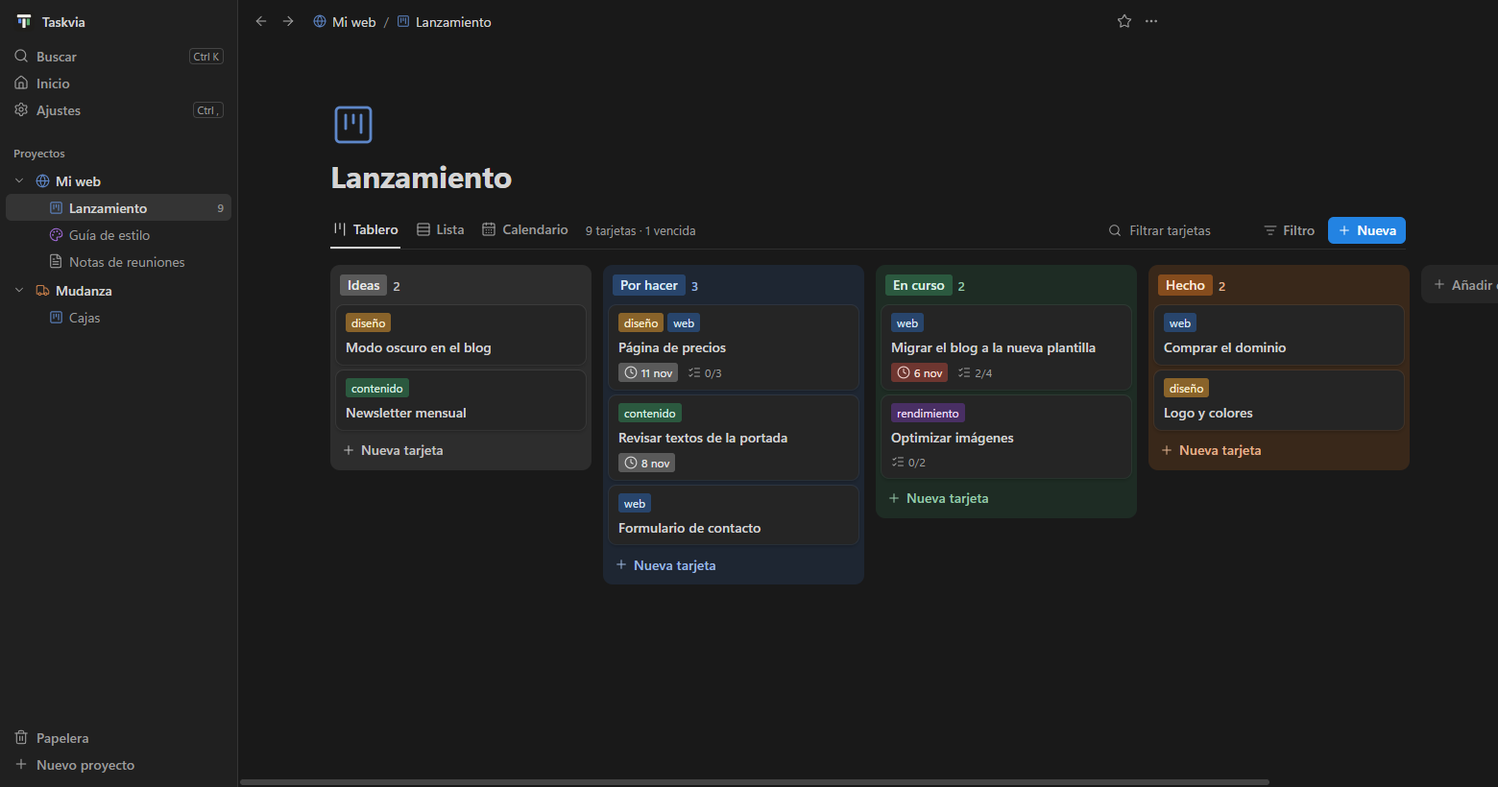
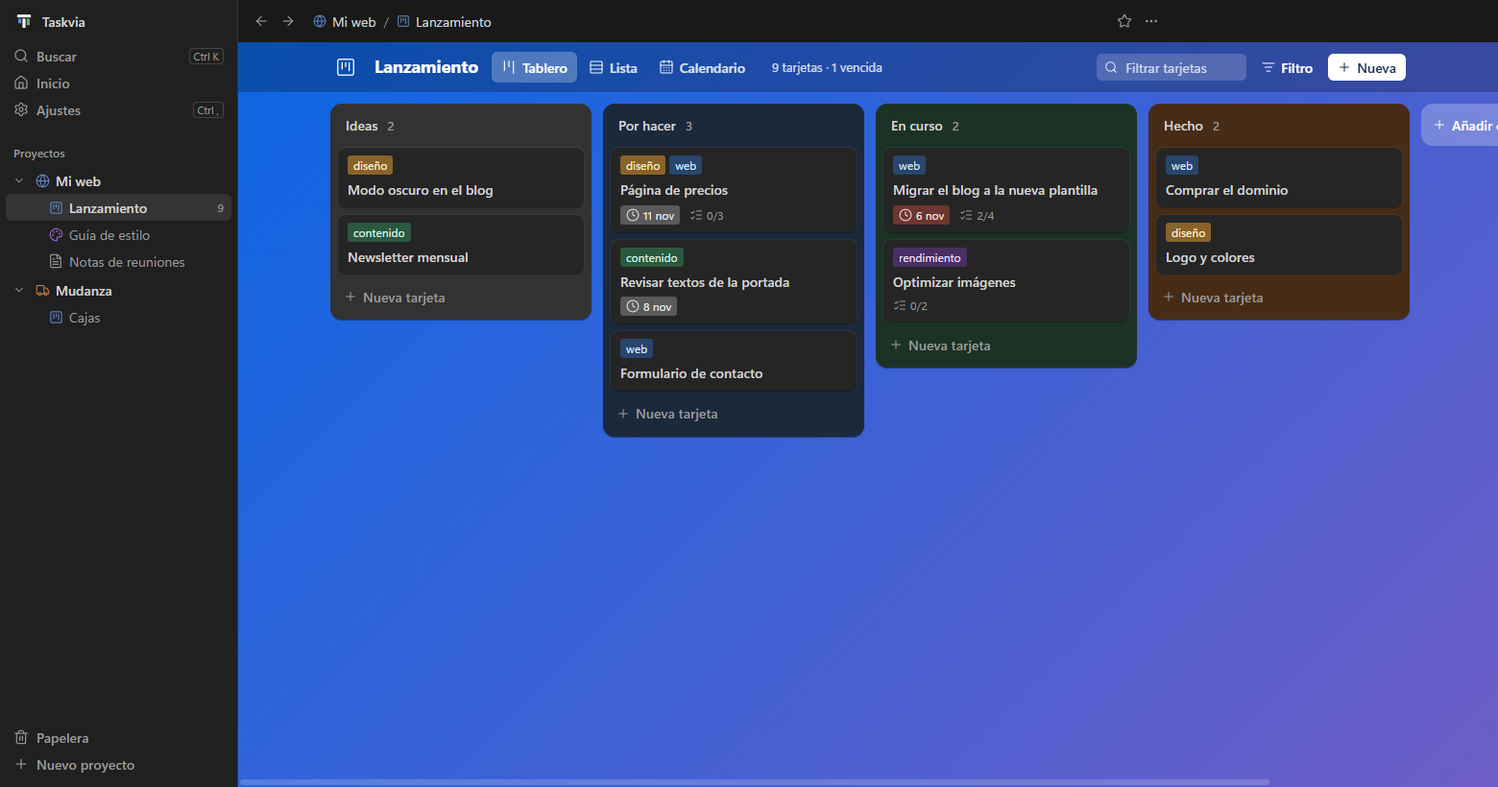
Tablero con aspecto de kanban clásico, plantillas al crear tableros y portadas de color o imagen

diff --git a/public/app.css b/public/app.css
@@ -2,6 +2,7 @@
 :root {
   color-scheme: light;
   --bg: #ffffff; --sidebar: #f8f8f7; --raised: #ffffff; --card: #ffffff; --card-hover: #fafaf9;
+  --list: #f1f2f4; --list-shadow: 0 1px 1px rgba(9,30,66,.2); --board-card-shadow: 0 1px 1px rgba(9,30,66,.25), 0 0 1px rgba(9,30,66,.31);
   --text: #37352f; --text-2: #73726e; --text-3: #6f6e69;
   --hover: rgba(55,53,47,.06); --active: rgba(55,53,47,.1); --line: rgba(55,53,47,.09); --line-strong: rgba(55,53,47,.16);
   --accent: #2383e2; --accent-hover: #0077d4; --on-accent: #fff; --accent-soft: color-mix(in srgb, var(--accent) 15%, transparent);
@@ -30,6 +31,7 @@
   :root {
     color-scheme: dark;
     --bg: #191919; --sidebar: #202020; --raised: #252525; --card: #252525; --card-hover: #2c2c2c;
+    --list: #121212; --list-shadow: 0 1px 1px rgba(0,0,0,.4); --board-card-shadow: 0 1px 1px rgba(0,0,0,.5), 0 0 0 1px rgba(255,255,255,.06);
     --text: #d4d4d4; --text-2: #9b9b9b; --text-3: #8f8f8f;
     --hover: rgba(255,255,255,.055); --active: rgba(255,255,255,.09); --line: rgba(255,255,255,.094); --line-strong: rgba(255,255,255,.16);
     --accent-soft: color-mix(in srgb, var(--accent) 26%, transparent); --danger: #df5452; --danger-soft: rgba(223,84,82,.14); --ok: #529e72;
@@ -580,3 +582,92 @@ body.resizing { cursor: col-resize; user-select: none; }
   .title { font-size: 32px; }
 }
 @media (prefers-reduced-motion: reduce) { * { transition: none !important; } }
+
+/* ---------- Tablero clásico: fondo de color a pantalla completa, listas sobre él y tarjetas blancas ---------- */
+.board-view.mode-board { --board-a: #0c66e4; --board-b: #6e5dc6; background: linear-gradient(135deg, var(--board-a), var(--board-b)); }
+.board-view.mode-board.has-bg { --board-a: var(--tag-strong); --board-b: color-mix(in srgb, var(--tag-strong) 55%, #000); }
+.mode-board .board-head { display: flex; flex-wrap: wrap; align-items: center; gap: 4px 8px; padding-top: 10px; padding-bottom: 10px;
+  background: rgba(0,0,0,.24); color: #fff; backdrop-filter: blur(6px); }
+.mode-board .board-head .big-emoji { width: 32px; height: 32px; font-size: 22px; margin: 0; border-radius: 6px; }
+.mode-board .board-head .big-emoji .gl { color: #fff; }
+.mode-board .board-head .big-emoji:hover { background: rgba(255,255,255,.2); }
+.mode-board .board-head .title { font-size: 18px; letter-spacing: 0; padding: 2px 6px; border-radius: 6px; }
+.mode-board .board-head .title:hover { background: rgba(255,255,255,.2); }
+.mode-board .board-head .title:focus { background: #fff; color: #172b4d; }
+.mode-board .bar { flex: 1; min-width: 0; margin: 0; height: 32px; border: 0; gap: 6px; }
+.mode-board .view-tabs { gap: 2px; }
+.mode-board .view-tab { color: rgba(255,255,255,.85); border: 0; margin: 0; padding: 0 10px; border-radius: 6px; height: 32px; }
+.mode-board .view-tab:hover { background: rgba(255,255,255,.2); color: #fff; }
+.mode-board .view-tab.on { background: rgba(255,255,255,.25); color: #fff; }
+.mode-board .bar .meta { color: rgba(255,255,255,.8); }
+.mode-board .filter { color: rgba(255,255,255,.85); background: rgba(255,255,255,.18); }
+.mode-board .filter:hover, .mode-board .filter:focus-within { background: rgba(255,255,255,.28); }
+.mode-board .filter input { color: #fff; }
+.mode-board .filter input::placeholder { color: rgba(255,255,255,.75); }
+.mode-board .board-head .btn.ghost { color: #fff; }
+.mode-board .board-head .btn.ghost:hover, .mode-board .board-head .btn.ghost.active { background: rgba(255,255,255,.2); }
+.mode-board .board-head .btn.primary { background: #fff; color: #172b4d; }
+.mode-board .board-head .btn.primary:hover { background: rgba(255,255,255,.88); }
+.mode-board .filter-chips { flex-basis: 100%; padding-top: 4px; }
+.mode-board .board { padding-top: 12px; gap: 12px; }
+.mode-board .col { border-radius: 12px; padding: 8px; gap: 8px; background: color-mix(in srgb, var(--tag-bg) 45%, var(--list)); box-shadow: var(--list-shadow); }
+.mode-board .col-head .tag { background: none; color: var(--text); font-weight: 600; padding: 0 4px; }
+.mode-board .col-head .ct { color: var(--text-2); }
+.mode-board .col-head .ib { color: var(--text-2); }
+.mode-board .cards { gap: 8px; }
+.mode-board .card { box-shadow: var(--board-card-shadow); }
+.mode-board .card:hover { box-shadow: var(--board-card-shadow), inset 0 0 0 2px var(--accent); background: var(--card); }
+.mode-board .add-card { color: var(--text-2); border-radius: 8px; height: 32px; }
+.mode-board .add-card:hover { background: color-mix(in srgb, var(--text) 10%, transparent); color: var(--text); }
+.mode-board .add-col { background: rgba(255,255,255,.24); color: #fff; border-radius: 12px; height: 44px; }
+.mode-board .add-col:hover { background: rgba(255,255,255,.34); color: #fff; }
+.mode-board .add-col input { color: #fff; }
+.mode-board .add-col input::placeholder { color: rgba(255,255,255,.75); }
+.mode-board .col.collapsed { background: color-mix(in srgb, var(--tag-bg) 45%, var(--list)); }
+
+/* Portadas: franja arriba más alta, o la tarjeta entera */
+.card .cover { height: 36px; }
+.card.full-cover { position: relative; min-height: 56px; display: flex; align-items: flex-end; background: var(--tag-strong); }
+.card.full-cover .card-title { position: relative; padding: 10px 12px; color: #fff; font-weight: 600; font-size: 15px; text-shadow: 0 1px 2px rgba(0,0,0,.25); }
+.card.full-cover.img { min-height: 140px; }
+.card.full-cover.img img { position: absolute; inset: 0; width: 100%; height: 100%; object-fit: cover; }
+.card.full-cover.img::after { content: ""; position: absolute; inset: 40% 0 0; background: linear-gradient(transparent, rgba(0,0,0,.6)); }
+.card.full-cover.img .card-title { z-index: 1; }
+.mode-board .card.full-cover:hover { background: var(--tag-strong); filter: brightness(1.05); }
+.peek-cover, .peek-cover-img { position: relative; }
+.cover-btn { position: absolute; right: 12px; bottom: 10px; background: rgba(255,255,255,.9); color: #172b4d; opacity: 0; transition: opacity .12s; }
+.peek-cover:hover .cover-btn, .peek-cover-img:hover .cover-btn, .cover-btn:focus-visible { opacity: 1; }
+.cover-btn:hover { background: #fff; }
+.cover-sizes { display: grid; grid-template-columns: 1fr 1fr; gap: 6px; padding: 2px 6px 4px; }
+.cover-sizes button { display: flex; flex-direction: column; align-items: center; gap: 4px; padding: 6px; border-radius: 6px; font-size: 12px; color: var(--text-2); box-shadow: inset 0 0 0 1px var(--line-strong); }
+.cover-sizes button:hover { background: var(--hover); }
+.cover-sizes button.on { box-shadow: inset 0 0 0 2px var(--accent); color: var(--text); }
+.cover-sizes span { width: 64px; height: 40px; border-radius: 4px; box-shadow: var(--card-shadow); }
+.cs-top { background: linear-gradient(var(--text-3) 0 12px, var(--card) 12px); }
+.cs-full { background: var(--text-3); }
+.cover-imgs { display: grid; grid-template-columns: repeat(3, 1fr); gap: 6px; padding: 2px 6px 4px; }
+.cover-imgs button { height: 44px; border-radius: 4px; overflow: hidden; box-shadow: inset 0 0 0 1px var(--line-strong); }
+.cover-imgs button.on { box-shadow: 0 0 0 2px var(--accent); }
+.cover-imgs img { width: 100%; height: 100%; object-fit: cover; display: block; }
+
+/* Nuevo tablero: nombre y plantillas */
+#new-board { width: min(720px, 94vw); }
+#new-board header { display: flex; align-items: center; justify-content: space-between; padding: 16px 20px 0; }
+#new-board h2 { font-size: 18px; margin: 0; }
+.nb-body { padding: 12px 20px 20px; display: flex; flex-direction: column; gap: 10px; }
+.nb-name { display: flex; flex-direction: column; gap: 4px; font-size: 12px; color: var(--text-2); }
+.nb-name input { height: 34px; padding: 0 10px; border-radius: 6px; font-size: 15px; color: var(--text); box-shadow: inset 0 0 0 1px var(--line-strong); }
+.nb-name input:focus { box-shadow: inset 0 0 0 1px var(--accent), 0 0 0 3px var(--accent-soft); }
+.nb-body .pop-label { padding: 4px 0 0; }
+.nb-grid { display: grid; grid-template-columns: repeat(auto-fill, minmax(200px, 1fr)); gap: 10px; }
+.nb-tpl { display: flex; flex-direction: column; align-items: flex-start; gap: 4px; padding: 10px; border-radius: 10px; text-align: left; box-shadow: inset 0 0 0 1px var(--line-strong); }
+.nb-tpl:hover { background: var(--hover); }
+.nb-tpl.on { box-shadow: inset 0 0 0 2px var(--accent); background: var(--accent-soft); }
+.nb-tpl b { display: flex; align-items: center; gap: 6px; font-weight: 600; }
+.nb-tpl .muted { font-size: 12px; color: var(--text-2); }
+.nb-tpl .labels { display: flex; flex-wrap: wrap; gap: 4px; margin-top: 2px; }
+.nb-prev { width: 100%; height: 64px; border-radius: 6px; padding: 8px; margin-bottom: 4px; display: flex; gap: 5px; align-items: flex-start;
+  background: linear-gradient(135deg, #0c66e4, #6e5dc6); color: rgba(255,255,255,.85); }
+.nb-prev i { flex: 1; max-width: 26px; border-radius: 3px; background: color-mix(in srgb, var(--tag-bg) 60%, #fff); }
+.nb-prev > .i { margin: auto; }
+.nb-body .confirm-actions { margin-top: 6px; }

diff --git a/public/js/app.js b/public/js/app.js
@@ -5,13 +5,42 @@ async function newProject() {
   focusTitleNext = true;
   go({ type: 'project', project: name });
 }
-async function newBoard(project) {
-  const p = proj(project);
-  const b = await call('createBoard', project, { name: uniqueName('Tablero sin título', p.boards.map(b => b.name)) });
-  collapsedProjects.delete(project);
-  focusTitleNext = true;
-  go({ type: 'board', project, id: b.id });
+// Plantillas de «Nuevo tablero»: columnas y etiquetas con las que nace (Vacío = sin nada, lo montas tú)
+const BOARD_TEMPLATES = [
+  { id: 'empty', name: 'Vacío', desc: 'Sin columnas ni etiquetas.', icon: 'square-dashed', columns: [], labels: [] },
+  { id: 'todo', name: 'Tareas', desc: 'Por hacer, en curso y hecho.', icon: 'list-todo', columns: ['Por hacer', 'En curso', 'Hecho'], labels: [] },
+  { id: 'size', name: 'Tareas con tamaño', desc: 'Etiquetas para lo que cuesta cada tarea.', icon: 'ruler', columns: ['Por hacer', 'En curso', 'Hecho'],
+    labels: [['Pequeña', 'green'], ['Mediana', 'yellow'], ['Grande', 'red']] },
+  { id: 'sprint', name: 'Sprint', desc: 'Del backlog a hecho, pasando por revisión.', icon: 'rocket', columns: ['Backlog', 'Por hacer', 'En curso', 'En revisión', 'Hecho'],
+    labels: [['Bug', 'red'], ['Mejora', 'blue'], ['Urgente', 'orange']] },
+  { id: 'content', name: 'Contenido', desc: 'De la idea a publicado.', icon: 'pen-line', columns: ['Ideas', 'Escribiendo', 'Revisión', 'Publicado'],
+    labels: [['Blog', 'purple'], ['Redes', 'pink'], ['Vídeo', 'orange']] },
+];
+const PREVIEW_COLORS = ['gray', 'blue', 'green', 'orange', 'purple'];
+let nbProject = null, nbTemplate = 'todo';
+function drawTemplates() {
+  $('#nb-templates').innerHTML = BOARD_TEMPLATES.map(t => `<button type="button" class="nb-tpl ${t.id === nbTemplate ? 'on' : ''}" role="radio" aria-checked="${t.id === nbTemplate}" data-tpl="${t.id}">
+    <span class="nb-prev">${t.columns.length ? t.columns.map((_, i) => `<i class="c-${PREVIEW_COLORS[i % PREVIEW_COLORS.length]}" style="height:${[70, 50, 34, 58, 42][i]}%"></i>`).join('') : icon('plus')}</span>
+    <b>${icon(t.icon, 'sm')}${t.name}</b><span class="muted">${t.desc}</span>
+    ${t.labels.length ? `<span class="labels">${t.labels.map(([n, c]) => `<span class="tag c-${c}">${n}</span>`).join('')}</span>` : ''}</button>`).join('');
 }
+function newBoard(project) {
+  nbProject = project;
+  $('#nb-name').value = uniqueName('Tablero sin título', proj(project).boards.map(b => b.name));
+  drawTemplates();
+  $('#new-board').showModal();
+  $('#nb-name').select();
+}
+$('#nb-templates').addEventListener('click', e => { const b = e.target.closest('[data-tpl]'); if (b) { nbTemplate = b.dataset.tpl; drawTemplates(); } });
+$('#nb-templates').addEventListener('dblclick', e => { if (e.target.closest('[data-tpl]')) $('#new-board form').requestSubmit(); });
+$('#new-board').addEventListener('click', e => { if (e.target.id === 'new-board' || e.target.closest('[data-close]')) $('#new-board').close(); });
+$('#new-board form').addEventListener('submit', async () => {
+  const t = BOARD_TEMPLATES.find(x => x.id === nbTemplate), project = nbProject;
+  const p = proj(project), name = $('#nb-name').value.trim() || uniqueName('Tablero sin título', p.boards.map(b => b.name));
+  const b = await call('createBoard', project, { name, columns: t.columns, labels: t.labels.map(([n, color]) => ({ name: n, color })) });
+  collapsedProjects.delete(project);
+  go({ type: 'board', project, id: b.id });
+});
 async function newPage(project, parent = '') {
   await flushRte(); // lo que estabas escribiendo en la página padre se guarda antes de añadirle el enlace
   const r = await call('createPage', project, { parent, linkInParent: !!parent });

diff --git a/store.js b/store.js
@@ -223,13 +223,14 @@ function boardName(p, name, exceptId) {
 
 export const getBoard = (projRef, boardRef) => board(project(projRef), boardRef);
 
-export function createBoard(projRef, { name, emoji, icon, columns = ['Por hacer', 'En curso', 'Hecho'] }) {
+// labels: [{ name, color }] de la plantilla elegida; columns puede venir vacío (tablero en blanco)
+export function createBoard(projRef, { name, emoji, icon, columns = ['Por hacer', 'En curso', 'Hecho'], labels = [] }) {
   const p = project(projRef);
   emoji = toIcon(icon ?? emoji, 'board');
   const b = {
     id: newId(), name: boardName(p, name), emoji,
     columns: columns.map((n, i) => ({ id: newId(), name: n, color: COLUMN_COLORS[i % COLUMN_COLORS.length] })),
-    labels: [], cards: [], createdAt: now(),
+    labels: labels.map(l => ({ id: newId(), name: String(l.name).trim(), color: color(l.color) })).filter(l => l.name), cards: [], createdAt: now(),
   };
   saveBoard(p, b);
   return b;
@@ -448,7 +449,7 @@ export const createCard = (projRef, boardRef, { title, description = '', column,
   });
 
 // baseDescription: la descripción que tenía el editor al empezar. Si ya no coincide, alguien la cambió → conflicto.
-export const updateCard = (id, { title, description, baseDescription, emoji, icon, cover, labels, docs, column, start, due, dueDone, template }) => {
+export const updateCard = (id, { title, description, baseDescription, emoji, icon, cover, coverSize, labels, docs, column, start, due, dueDone, template }) => {
   if (icon !== undefined) emoji = icon;
   if (column !== undefined) moveCard(id, column);
   return mutateCard(id, (c, b) => {
@@ -465,6 +466,8 @@ export const updateCard = (id, { title, description, baseDescription, emoji, ico
     }
     if (emoji !== undefined) c.emoji = toIcon(emoji);
     if (cover !== undefined) c.cover = cleanCover(c, cover);
+    // Portada arriba (franja) o completa (la tarjeta entera es la portada, con el título encima)
+    if (coverSize !== undefined) { if (coverSize === 'full') c.coverSize = 'full'; else delete c.coverSize; }
     setDates(c, { start, due, dueDone });
     if (template !== undefined && !!template !== !!c.template) {
       if (template) c.template = true; else delete c.template;
@@ -552,14 +555,17 @@ function storeFile(p, name, data) {
   return file;
 }
 const cleanFileName = n => String(n ?? '').replace(/[\x00-\x1f<>:"/\\|?*]/g, '').trim().slice(0, 120) || 'fichero';
-export function addAttachment(id, { name, base64 }) {
+// cover: además la pone de portada (subir imagen desde «Portada»)
+export function addAttachment(id, { name, base64, cover = false }) {
   const data = Buffer.from(String(base64 ?? ''), 'base64');
   if (!data.length) throw new Error('El fichero está vacío');
   if (data.length > MAX_FILE) throw new Error('El fichero pasa de 25 MB');
   const { p } = locate(id), file = storeFile(p, name, data);
   return mutateCard(id, c => {
-    (c.attachments ??= []).push({ id: newId(), name: cleanFileName(name), file: `assets/${file}`, size: data.length, addedAt: now(), by: actor });
-    log(c, `adjuntó «${cleanFileName(name)}»`);
+    const att = { id: newId(), name: cleanFileName(name), file: `assets/${file}`, size: data.length, addedAt: now(), by: actor };
+    c.attachments = [...(c.attachments ?? []), att];
+    log(c, `adjuntó «${att.name}»`);
+    if (cover) c.cover = cleanCover(c, 'img:' + att.id);
   });
 }
 export function addLink(id, { url, name }) {

diff --git a/public/js/popovers.js b/public/js/popovers.js
@@ -99,11 +99,43 @@ function docsPicker(anchor) {
   });
 }
 
-function coverPicker(anchor) {
-  const c = currentCard();
+// Portada de la tarjeta: tamaño (franja arriba o tarjeta completa), color, imagen nueva o una imagen ya adjunta
+function coverPicker(anchor, card = currentCard()) {
+  const id = card.id, cur = () => board.cards.find(c => c.id === id);
+  const pickImage = () => {
+    const input = Object.assign(document.createElement('input'), { type: 'file', accept: 'image/*' });
+    input.onchange = async () => {
+      const f = input.files[0];
+      if (!f) return;
+      if (f.size > 25 * 1024 * 1024) return toast(`«${f.name}» pasa de 25 MB`, true);
+      await act('addAttachment', id, { name: f.name, base64: await readB64(f), cover: true });
+    };
+    input.click();
+  };
   openPop(anchor, {
-    list: () => `<div class="pop-label">Portada</div>${colorOpts(c.cover)}${c.cover ? `<div class="pop-sep"></div><button class="opt danger" data-v="none">${icon('x', 'sm')}<span class="grow">Quitar portada</span></button>` : ''}`,
-    pick: async v => { closePop(); await act('updateCard', c.id, { cover: v === 'none' ? null : v.slice(6) }); },
+    list: () => {
+      const c = cur(), full = c.coverSize === 'full';
+      const imgs = (c.attachments ?? []).filter(a => a.file && /\.(png|jpe?g|gif|webp)$/i.test(a.file));
+      return `<div class="pop-label">Tamaño</div>
+        <div class="cover-sizes"><button class="${full ? '' : 'on'}" data-v="size:top" aria-pressed="${!full}"><span class="cs-top"></span>Arriba</button>
+          <button class="${full ? 'on' : ''}" data-v="size:full" aria-pressed="${full}"><span class="cs-full"></span>Completa</button></div>
+        <div class="pop-label">Colores</div>${colorOpts(c.cover)}
+        <div class="pop-label">Imagen</div>
+        ${imgs.length ? `<div class="cover-imgs">${imgs.map(a => `<button class="${c.cover === 'img:' + a.id ? 'on' : ''}" data-v="img:${a.id}" title="${esc(a.name)}"><img src="${assetUrl(route.project, a.file)}" alt=""></button>`).join('')}</div>` : ''}
+        <button class="opt" data-v="upload">${icon('image-up', 'sm')}<span class="grow">Subir imagen…</span></button>
+        ${c.cover ? `<div class="pop-sep"></div><button class="opt danger" data-v="none">${icon('x', 'sm')}<span class="grow">Quitar portada</span></button>` : ''}`;
+    },
+    pick: async v => {
+      if (v === 'upload') { closePop(); return pickImage(); }
+      if (v.startsWith('size:')) {
+        const c = cur(), patch = { coverSize: v.slice(5) };
+        if (!c.cover) patch.cover = 'blue'; // elegir tamaño sin portada pone una de color para que se vea
+        await act('updateCard', id, patch);
+        return drawPop();
+      }
+      await act('updateCard', id, v === 'none' ? { cover: null, coverSize: 'top' } : { cover: v.startsWith('img:') ? v : v.slice(6) });
+      drawPop();
+    },
   });
 }
 

diff --git a/public/js/menus.js b/public/js/menus.js
@@ -83,7 +83,7 @@ function itemMenu(anchor, d) {
     project: M('board', 'kanban', 'Nuevo tablero') + M('page', 'file-plus', 'Nueva página') + SEP + FAV + ICON + REN + SEP + M('delete', 'trash', 'Eliminar proyecto', 'danger'),
     board: M('open', 'arrow-up-right', 'Abrir') + FAV + ICON + REN + SEP + M('delete', 'trash', 'Eliminar tablero', 'danger'),
     page: M('open', 'arrow-up-right', 'Abrir') + M('sub', 'file-plus', 'Añadir subpágina') + FAV + ICON + REN + M('copy', 'copy', 'Copiar ruta') + SEP + M('delete', 'trash', 'Eliminar página', 'danger'),
-    card: card && (M('open', 'arrow-up-right', 'Abrir') + ICON + REN + M('dates', 'calendar', 'Fechas…') + M('ai', 'bot', 'Copiar para la IA') + SEP
+    card: card && (M('open', 'arrow-up-right', 'Abrir') + ICON + REN + M('dates', 'calendar', 'Fechas…') + M('cover', 'panel-top', 'Portada…') + M('ai', 'bot', 'Copiar para la IA') + SEP
       + M('copy-card', 'copy-plus', 'Copiar') + M('copy-to', 'copy', 'Copiar a otro tablero…') + M('move-to', 'arrow-right-left', 'Mover a otro tablero…')
       + M('template', 'layout-template', card.template ? 'Dejar de ser plantilla' : 'Convertir en plantilla')
       + M('archive', card.archived ? 'rotate-ccw' : 'archive', card.archived ? 'Sacar del archivo' : 'Archivar') + SEP + '<div class="pop-label">Mover a</div>'
@@ -95,7 +95,7 @@ function itemMenu(anchor, d) {
     list: () => body,
     pick: async v => {
       if (v === 'icon') return emojiPicker(popAnchor, iconOf(kind, d), x => setIcon(kind, d, x));
-      if (['dates', 'copy-to', 'move-to'].includes(v)) return ({ dates: () => datesPicker(popAnchor, card), 'copy-to': () => boardPicker(popAnchor, card, 'copy'), 'move-to': () => boardPicker(popAnchor, card, 'move') })[v]();
+      if (['dates', 'copy-to', 'move-to', 'cover'].includes(v)) return ({ cover: () => coverPicker(popAnchor, card), dates: () => datesPicker(popAnchor, card), 'copy-to': () => boardPicker(popAnchor, card, 'copy'), 'move-to': () => boardPicker(popAnchor, card, 'move') })[v]();
       closePop();
       if (v === 'board') return newBoard(p);
       if (v === 'page') return newPage(p);

diff --git a/public/js/views.js b/public/js/views.js
@@ -76,6 +76,10 @@ function cardHTML(c) {
     c.notes?.length ? `<span title="Notas">${icon('message-square-text', 'sm')}${c.notes.length}</span>` : '',
     c.attachments?.length ? `<span title="Adjuntos">${icon('paperclip', 'sm')}${c.attachments.length}</span>` : '',
   ].join('');
+  // Portada completa: la tarjeta entera es la portada (color o imagen) con el título encima, sin etiquetas ni datos
+  if (c.cover && c.coverSize === 'full') return `<article class="card full-cover ${coverImg ? 'img' : 'c-' + c.cover}" draggable="true" tabindex="0" data-card="${c.id}" data-kind="card" data-id="${c.id}">
+    ${coverImg ? `<img src="${assetUrl(route.project, coverImg.file)}" alt="" loading="lazy" draggable="false">` : ''}
+    <div class="card-title">${c.emoji ? `<span class="em">${glyph(c.emoji)}</span>` : ''}${esc(c.title)}</div></article>`;
   return `<article class="card" draggable="true" tabindex="0" data-card="${c.id}" data-kind="card" data-id="${c.id}">
     ${coverImg ? `<div class="cover-img"><img src="${assetUrl(route.project, coverImg.file)}" alt="" loading="lazy" draggable="false"></div>` : c.cover && !coverImg ? `<div class="cover c-${c.cover}"></div>` : ''}
     <div class="card-body">
@@ -107,7 +111,7 @@ function boardView() {
   const last = b.columns.at(-1), mode = viewMode(b.id);
   const overdue = live.filter(c => dueState(c) === 'over').length;
   const filtering = boardFilter || labelFilter.size || dueFilter;
-  return `<div class="board-view ${b.background ? 'has-bg c-' + b.background : ''}"><div class="board-head pad phead">
+  return `<div class="board-view mode-${mode} ${b.background ? 'has-bg c-' + b.background : ''}"><div class="board-head pad phead">
       <button class="big-emoji" data-act="emoji" data-target="board" title="Cambiar icono">${glyph(b.emoji || 'lucide:square-kanban:blue')}</button>
       <h1 class="title" contenteditable="plaintext-only" spellcheck="false" data-edit="board-name" data-project="${esc(route.project)}" data-id="${b.id}" data-orig="${esc(b.name)}" data-ph="Tablero sin título">${esc(b.name)}</h1>
       <div class="bar">

diff --git a/test-ui.js b/test-ui.js
@@ -328,6 +328,30 @@ await step('Ajustes: tema oscuro y vuelta al del sistema', async () => {
   assert.equal(s.getSettings().theme, 'system');
 });
 
+await step('Nuevo tablero con plantilla «Tareas con tamaño»: nace con sus columnas y etiquetas', async () => {
+  await win.locator('#tree [data-kind="project"]', { hasText: 'Otro' }).click({ button: 'right' });
+  await win.locator('#pop .opt', { hasText: 'Nuevo tablero' }).click();
+  await win.locator('#new-board[open] [data-tpl="size"]').click();
+  await win.locator('#nb-name').fill('Con tamaño');
+  await win.locator('#new-board button[value="ok"]').click();
+  await main.locator('.board-head .title', { hasText: 'Con tamaño' }).waitFor();
+  const nb = s.getBoard('Otro', 'Con tamaño');
+  assert.deepEqual(nb.columns.map(c => c.name), ['Por hacer', 'En curso', 'Hecho']);
+  assert.deepEqual(nb.labels.map(l => l.name), ['Pequeña', 'Mediana', 'Grande']);
+});
+
+await step('Portada desde el menú de la tarjeta: color y tamaño completo', async () => {
+  const id = s.createCard('Otro', 'Con tamaño', { title: 'Con portada' }).card.id;
+  await main.locator('.card', { hasText: 'Con portada' }).click({ button: 'right' });
+  await win.locator('#pop .opt', { hasText: 'Portada' }).click();
+  await win.locator('#pop [data-v="color:green"]').click();
+  await win.locator('#pop [data-v="size:full"]').click();
+  await main.locator('.card.full-cover.c-green', { hasText: 'Con portada' }).waitFor();
+  const c = s.getBoard('Otro', 'Con tamaño').cards.find(x => x.id === id);
+  assert.equal(c.cover, 'green'); assert.equal(c.coverSize, 'full');
+  await win.keyboard.press('Escape');
+});
+
 await app.close();
 fs.rmSync(dir, { recursive: true, force: true });
 console.log(`\nOK: ${n} pruebas de interfaz`);

diff --git a/test.js b/test.js
@@ -194,6 +194,19 @@ assert.equal(s.backupIfDue().name, new Date().toISOString().slice(0, 10));
 assert.equal(s.backupIfDue(), null);
 assert.ok(fs.existsSync(path.join(dir, 'backups', s.listBackups()[0], 'projects', 'Acme', 'project.json')));
 
+// Plantillas de tablero (columnas y etiquetas propias, o vacío) y portada completa
+const empty = s.createBoard('Acme', { name: 'En blanco', columns: [] });
+assert.equal(empty.columns.length, 0);
+const sized = s.createBoard('Acme', { name: 'Tallas', labels: [{ name: 'Pequeña', color: 'green' }, { name: 'Grande', color: 'nope' }] });
+assert.deepEqual(sized.labels.map(l => `${l.name}:${l.color}`), ['Pequeña:green', 'Grande:gray']);
+const fc = s.createCard('Acme', 'Tallas', { title: 'Portada', cover: 'red' }).card;
+s.updateCard(fc.id, { coverSize: 'full' });
+assert.equal(s.getBoard('Acme', 'Tallas').cards[0].coverSize, 'full');
+s.updateCard(fc.id, { coverSize: 'top' });
+assert.equal(s.getBoard('Acme', 'Tallas').cards[0].coverSize, undefined);
+s.addAttachment(fc.id, { name: 'foto.png', base64: Buffer.from('png').toString('base64'), cover: true });
+assert.match(s.getBoard('Acme', 'Tallas').cards[0].cover, /^img:/);
+
 // Proyecto de ejemplo del primer arranque: se crea entero y sus enlaces apuntan a páginas que existen
 (await import('./ejemplo.js')).seedExample();
 const demo = s.getBoard('Bienvenida', 'Primeros pasos');

diff --git a/public/index.html b/public/index.html
@@ -62,6 +62,15 @@ FINISH: unreviewed and undocumented is unfinished; this build ends with the fini
   <header><h2 id="settings-title">Ajustes</h2><button class="ib" data-close title="Cerrar (Esc)"><svg class="i"><use href="/icons.svg#x"/></svg></button></header>
   <div id="settings-body"></div>
 </dialog>
+<dialog id="new-board" class="sheet" aria-labelledby="nb-title">
+  <header><h2 id="nb-title">Nuevo tablero</h2><button class="ib" data-close title="Cerrar (Esc)"><svg class="i"><use href="/icons.svg#x"/></svg></button></header>
+  <form method="dialog" class="nb-body">
+    <label class="nb-name"><span>Nombre</span><input id="nb-name" autocomplete="off" spellcheck="false"></label>
+    <div class="pop-label">Plantilla</div>
+    <div id="nb-templates" class="nb-grid" role="radiogroup" aria-label="Plantilla"></div>
+    <div class="confirm-actions"><button class="btn ghost" type="button" data-close>Cancelar</button><button class="btn primary" value="ok">Crear tablero</button></div>
+  </form>
+</dialog>
 <dialog id="confirm" class="sheet" aria-labelledby="confirm-title">
   <h2 id="confirm-title"></h2><p id="confirm-text"></p>
   <div class="confirm-actions"><button class="btn ghost" value="cancel">Cancelar</button><button class="btn solid-danger" value="ok">Eliminar</button></div>

diff --git a/public/js/peek.js b/public/js/peek.js
@@ -24,7 +24,8 @@ function renderPeek() {
       ${c.archived ? `<div class="banner">${icon('archive', 'sm')}<span>Esta tarjeta está archivada: no aparece en el tablero.</span><button class="btn ghost" data-act="card-archive">Sacar del archivo</button></div>` : ''}
       ${c.template ? `<div class="banner">${icon('layout-template', 'sm')}<span>Esta tarjeta es una plantilla: úsala desde el botón de plantillas de cada columna.</span><button class="btn ghost" data-act="card-template">Dejar de ser plantilla</button></div>` : ''}
       ${(() => { const im = String(c.cover).startsWith('img:') && (c.attachments ?? []).find(a => 'img:' + a.id === c.cover);
-        return im ? `<div class="peek-cover-img"><img src="${assetUrl(route.project, im.file)}" alt=""></div>` : c.cover ? `<div class="peek-cover c-${c.cover}"></div>` : ''; })()}
+        const btn = `<button class="btn cover-btn" data-act="card-cover">${icon('panel-top', 'sm')}Portada</button>`;
+        return im ? `<div class="peek-cover-img"><img src="${assetUrl(route.project, im.file)}" alt="">${btn}</div>` : c.cover ? `<div class="peek-cover c-${c.cover}">${btn}</div>` : ''; })()}
       <div class="peek-inner">
         <div class="phead">
           <div class="head-acts">

diff --git a/README.md b/README.md
@@ -13,10 +13,11 @@ Taskvia pone en orden las tareas, la documentación y lo que la IA va haciendo e
 ## Qué tiene
 
 **Tableros (un kanban para una persona)**
+- Al crear un tablero eliges plantilla: vacío, tareas, tareas con tamaño, sprint o contenido.
 - Columnas que se arrastran, se pliegan, se copian y se ordenan (por vencimiento, título o antigüedad).
 - Tarjetas con:
   - descripción con formato, etiquetas de color, fechas de inicio y vencimiento (en rojo si vencen, en verde si están hechas);
-  - varias checklists, adjuntos (ficheros y enlaces), portada de color o de imagen, icono;
+  - varias checklists, adjuntos (ficheros y enlaces), portada de color o de imagen (como franja arriba o en toda la tarjeta), icono;
   - notas de trabajo e historial de cambios.
 - Vistas **Tablero**, **Lista** y **Calendario**; filtros por texto, etiqueta y fecha.
 - Plantillas de tarjeta, copiar o mover tarjetas a otro tablero (o proyecto), archivar en vez de borrar, fondo del tablero y duplicar tableros.

diff --git a/HISTORIAS.md b/HISTORIAS.md
@@ -29,3 +29,5 @@ Cada una se ha probado en la app (navegador interno + ventana Electron) o con `n
 25. **Tarjetas completas.** Varias checklists, adjuntos (ficheros y enlaces) y una imagen de portada.
 26. **Reutilizar y reorganizar.** Plantillas de tarjeta, copiar o mover tarjetas a otro tablero, plegar, copiar y ordenar columnas, fondo y duplicado de tableros.
 27. **Teclado.** Los atajos de teclado de tablero kanban que tienen sentido para una persona, con `?` para verlos.
+28. **Empezar un tablero.** Al crear un tablero elijo plantilla (vacío, tareas, tareas con tamaño, sprint, contenido) y nace con sus columnas y etiquetas.
+29. **Portadas.** Desde el menú de la tarjeta pongo una portada de color o una imagen, como franja arriba o en toda la tarjeta.
